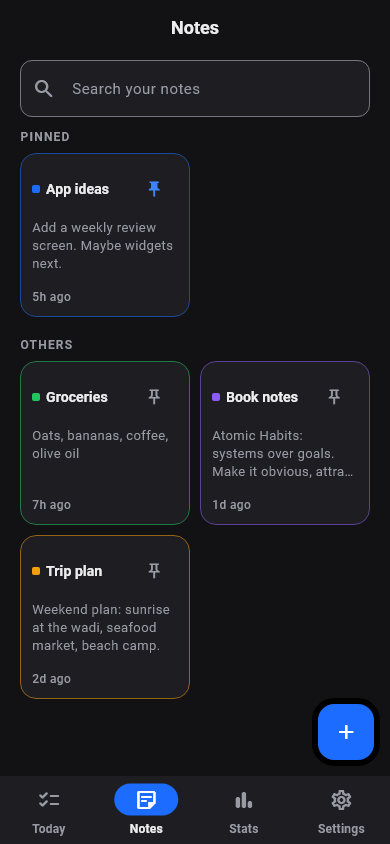
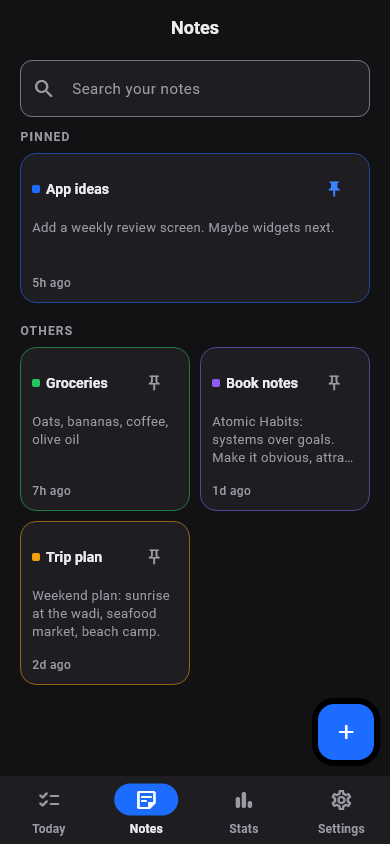
Consistency: max-width adaptive content, heatmap date headers for all spans + no-entry legend, full-width pinned notes, larger-target onboarding dots with semantic step actions

diff --git a/lib/features/stats/stats_screen.dart b/lib/features/stats/stats_screen.dart
@@ -359,6 +359,12 @@ class _Legend extends StatelessWidget {
         _item(theme, AppIcons.late, 'Late', lateColor),
         _item(theme, AppIcons.skipped, 'Skipped', skippedColor),
         _item(theme, AppIcons.missed, 'Missed', missedColor),
+        _item(
+          theme,
+          Icons.circle_outlined,
+          'No entry',
+          theme.colorScheme.onSurfaceVariant.withValues(alpha: 0.5),
+        ),
       ],
     );
   }
@@ -498,7 +504,7 @@ class _Heatmap extends StatelessWidget {
       );
     }
 
-    final headerHeight = days <= 7 ? 20.0 : 0.0;
+    final headerHeight = 20.0;
 
     return Column(
       crossAxisAlignment: CrossAxisAlignment.start,
@@ -538,17 +544,19 @@ class _Heatmap extends StatelessWidget {
                 child: Column(
                   crossAxisAlignment: CrossAxisAlignment.start,
                   children: [
-                    if (days <= 7)
-                      Row(
+                    Row(
                         children: dateList
                             .map(
                               (day) => SizedBox(
                                 width: cellSize + gap,
                                 child: Text(
-                                  DateFormat('EE').format(day),
+                                  days <= 7
+                                      ? DateFormat('EE').format(day)
+                                      : '${day.day}',
                                   textAlign: TextAlign.center,
                                   style:
                                       theme.textTheme.labelSmall?.copyWith(
+                                    fontSize: 10,
                                     color:
                                         theme.colorScheme.onSurfaceVariant,
                                   ),

diff --git a/lib/features/notes/notes_screen.dart b/lib/features/notes/notes_screen.dart
@@ -100,6 +100,8 @@ class _NotesScreenState extends ConsumerState<NotesScreen> {
                         const SizedBox(height: 8),
                         _NoteGrid(
                           notes: pinned,
+                          columns: 1,
+                          extent: 150,
                           onTap: (note) => context.push('/note?id=${note.id}'),
                           onLongPress: (note) => _togglePin(note),
                         ),
@@ -159,11 +161,15 @@ class _NoteGrid extends StatelessWidget {
     required this.notes,
     required this.onTap,
     required this.onLongPress,
+    this.columns = 2,
+    this.extent = 164,
   });
 
   final List<db.Note> notes;
   final ValueChanged<db.Note> onTap;
   final ValueChanged<db.Note> onLongPress;
+  final int columns;
+  final double extent;
 
   @override
   Widget build(BuildContext context) {
@@ -174,10 +180,10 @@ class _NoteGrid extends StatelessWidget {
       shrinkWrap: true,
       physics: const NeverScrollableScrollPhysics(),
       gridDelegate: SliverGridDelegateWithFixedCrossAxisCount(
-        crossAxisCount: 2,
+        crossAxisCount: columns,
         mainAxisSpacing: 10,
         crossAxisSpacing: 10,
-        mainAxisExtent: 164 * scale,
+        mainAxisExtent: extent * scale,
       ),
       itemCount: notes.length,
       itemBuilder: (context, index) {

diff --git a/lib/features/shell/app_shell.dart b/lib/features/shell/app_shell.dart
@@ -13,7 +13,12 @@ class AppShell extends StatelessWidget {
   @override
   Widget build(BuildContext context) {
     return Scaffold(
-      body: navigationShell,
+      body: Center(
+        child: ConstrainedBox(
+          constraints: const BoxConstraints(maxWidth: 720),
+          child: navigationShell,
+        ),
+      ),
       bottomNavigationBar: NavigationBar(
         selectedIndex: navigationShell.currentIndex,
         onDestinationSelected: (index) {
